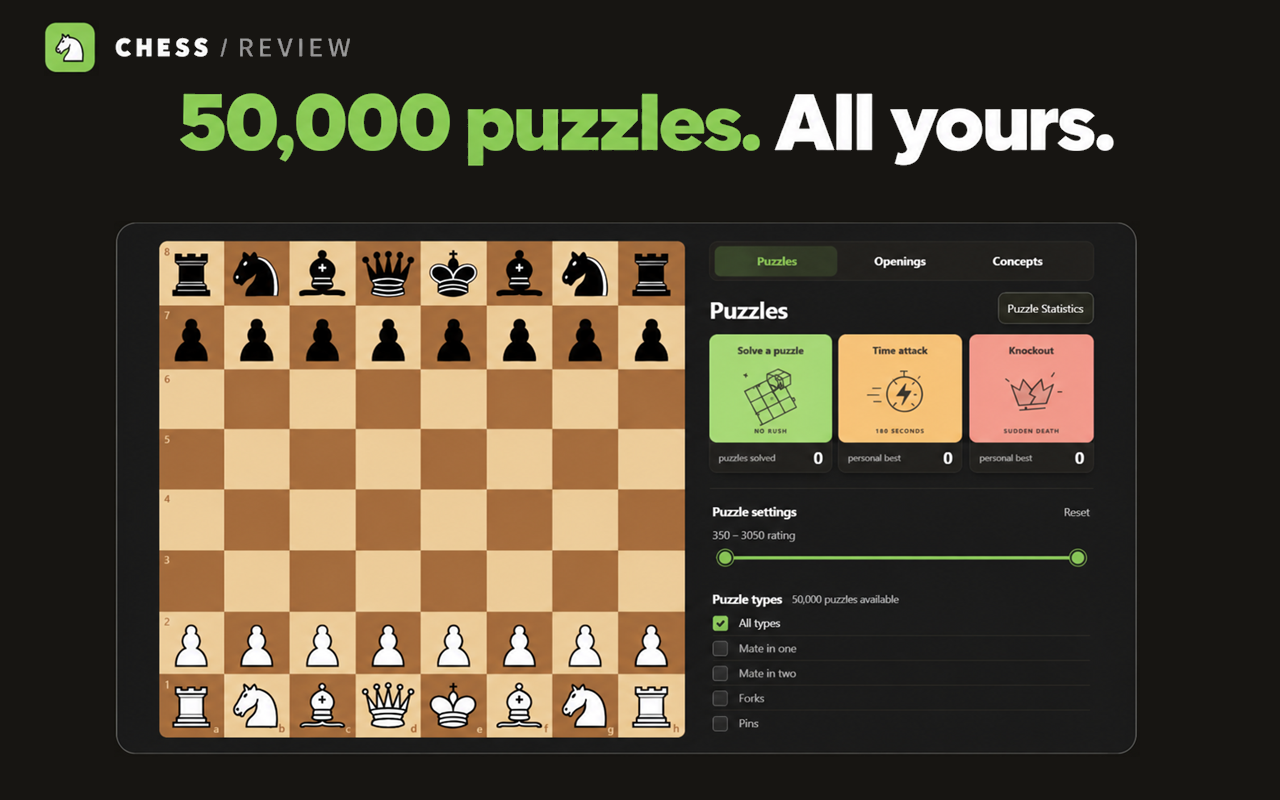
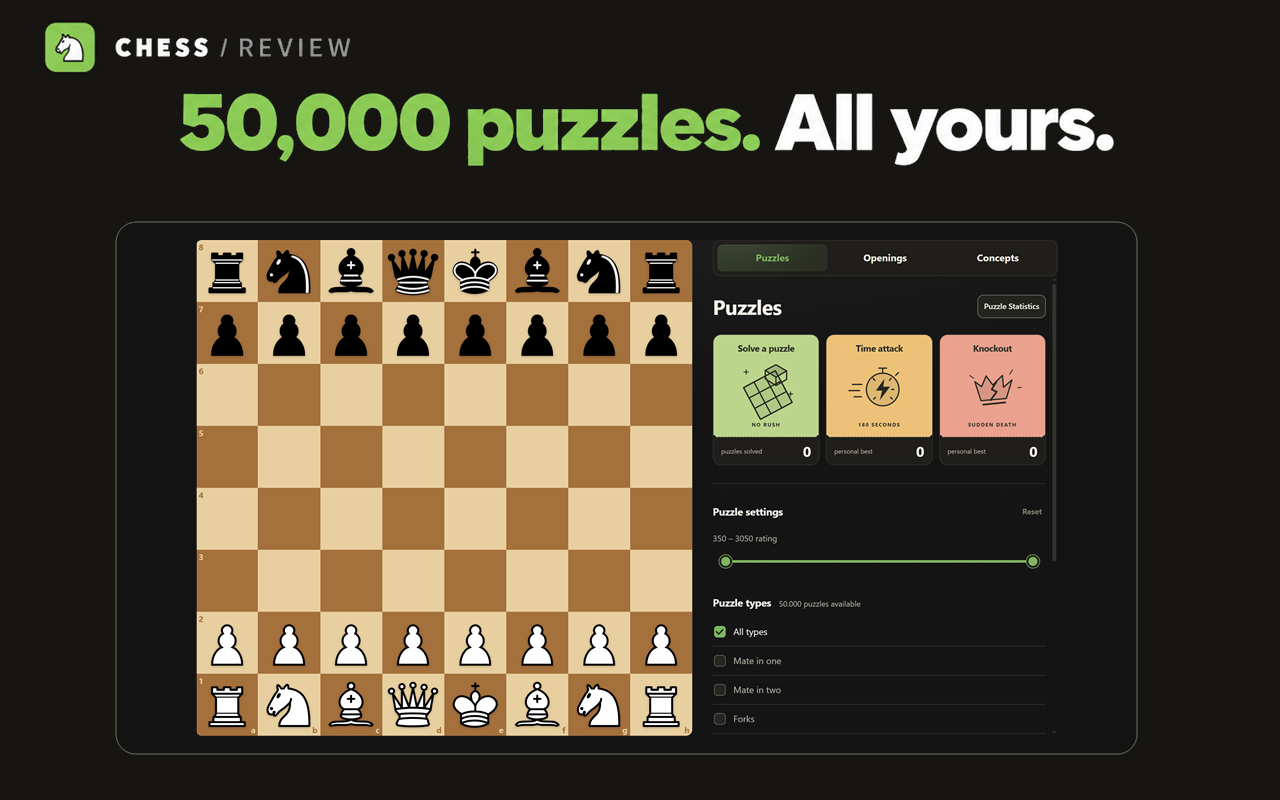
marketing: replace generated puzzle UI with a native screenshot
Remove warped small text and uneven lighting by inserting a direct extension capture without stretching the board. Preserve the approved headline and outer background, and retain the source capture for future updates.

Changed region(s): [[0.125, 0.2812, 0.875, 0.9375], [0.8125, 0.625, 0.8438, 0.6562]]

diff --git a/marketing/PUZZLE_CANDIDATES.md b/marketing/PUZZLE_CANDIDATES.md
@@ -6,11 +6,19 @@ Three new alternatives for the Chrome Web Store image set. The existing campaign
 - `chrome-web-store/puzzles-candidate-02.png` — **All yours.** Campaign-style headline above the puzzle overview and its three modes.
 - `chrome-web-store/puzzles-candidate-03.png` — **Small puzzles. Big progress.** Centered headline with the puzzle count and board in a shared frame.
 
-All exports: 1280 × 800 PNG. Generated with the built-in imagegen tool using existing campaign images and fresh captures from an isolated copy of the current extension as references. Generated UI is a visual reconstruction, rather than a pixel-exact screenshot. Candidate 2 received a targeted correction to restore the g1 knight. The generated compositions were resampled to the existing campaign dimensions for delivery.
+All exports: 1280 × 800 PNG. The initial candidates were generated with the built-in imagegen tool using existing campaign images and fresh captures from an isolated copy of the current extension as references. Candidates 1 and 3 retain generated UI reconstructions. The selected candidate 2 now uses a direct screenshot of the real extension inside its product frame.
 
 ## Candidate 2 — selected revision
 
 The selected All yours candidate has a centered headline, no marketing subtitle, and an outer background using the reference's sampled base color, #171512. The logo remains at the top left and the product frame below. Exported at 1280 × 800.
+
+### Native product screenshot
+
+Replaced the entire generated product screenshot with an authentic Chrome extension capture to remove warped lettering, uneven lighting and other generation artifacts, especially around Puzzle types. No image generation was used for this replacement.
+
+Source: `sources/puzzles-overview-native.png`, captured from an isolated copy of the current working extension at a 1840 × 900 viewport and 2× device scale. The crop contains the actual board and puzzle panel. The source is uniformly scaled to 861.3 × 496 pixels, centered inside the rounded frame, without stretching the board or redrawing UI text. The marketing headline, logo and outer background are preserved.
+
+Earlier generation and editing prompts below describe the design history, not the current screenshot insert.
 
 ### Exact background and subtitle removal
 
